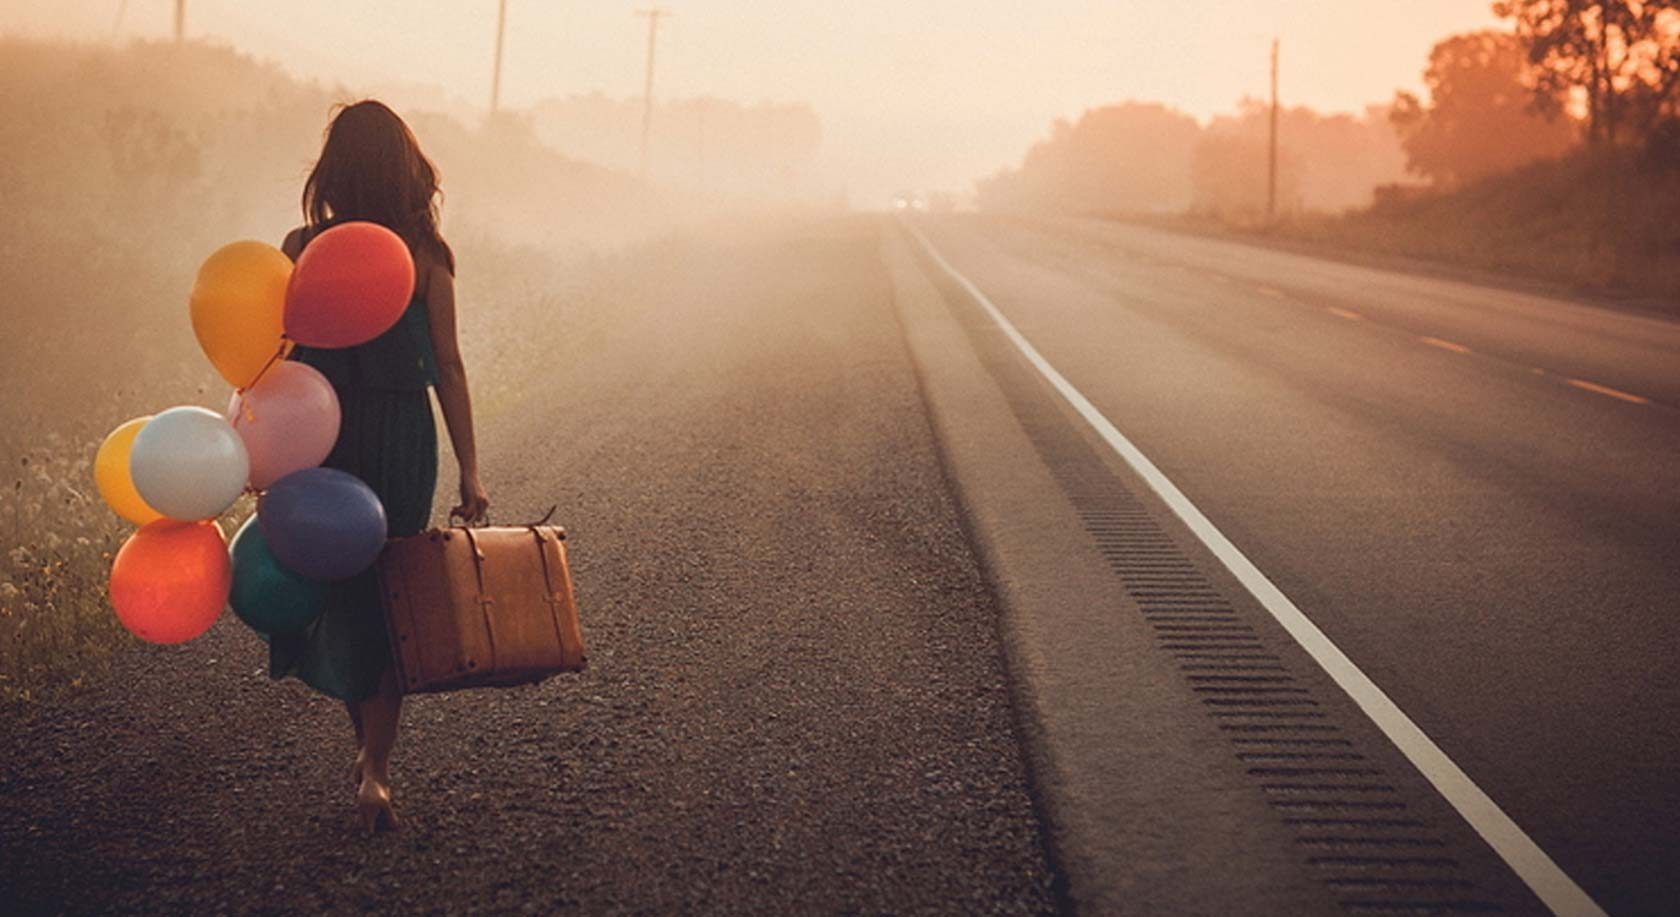
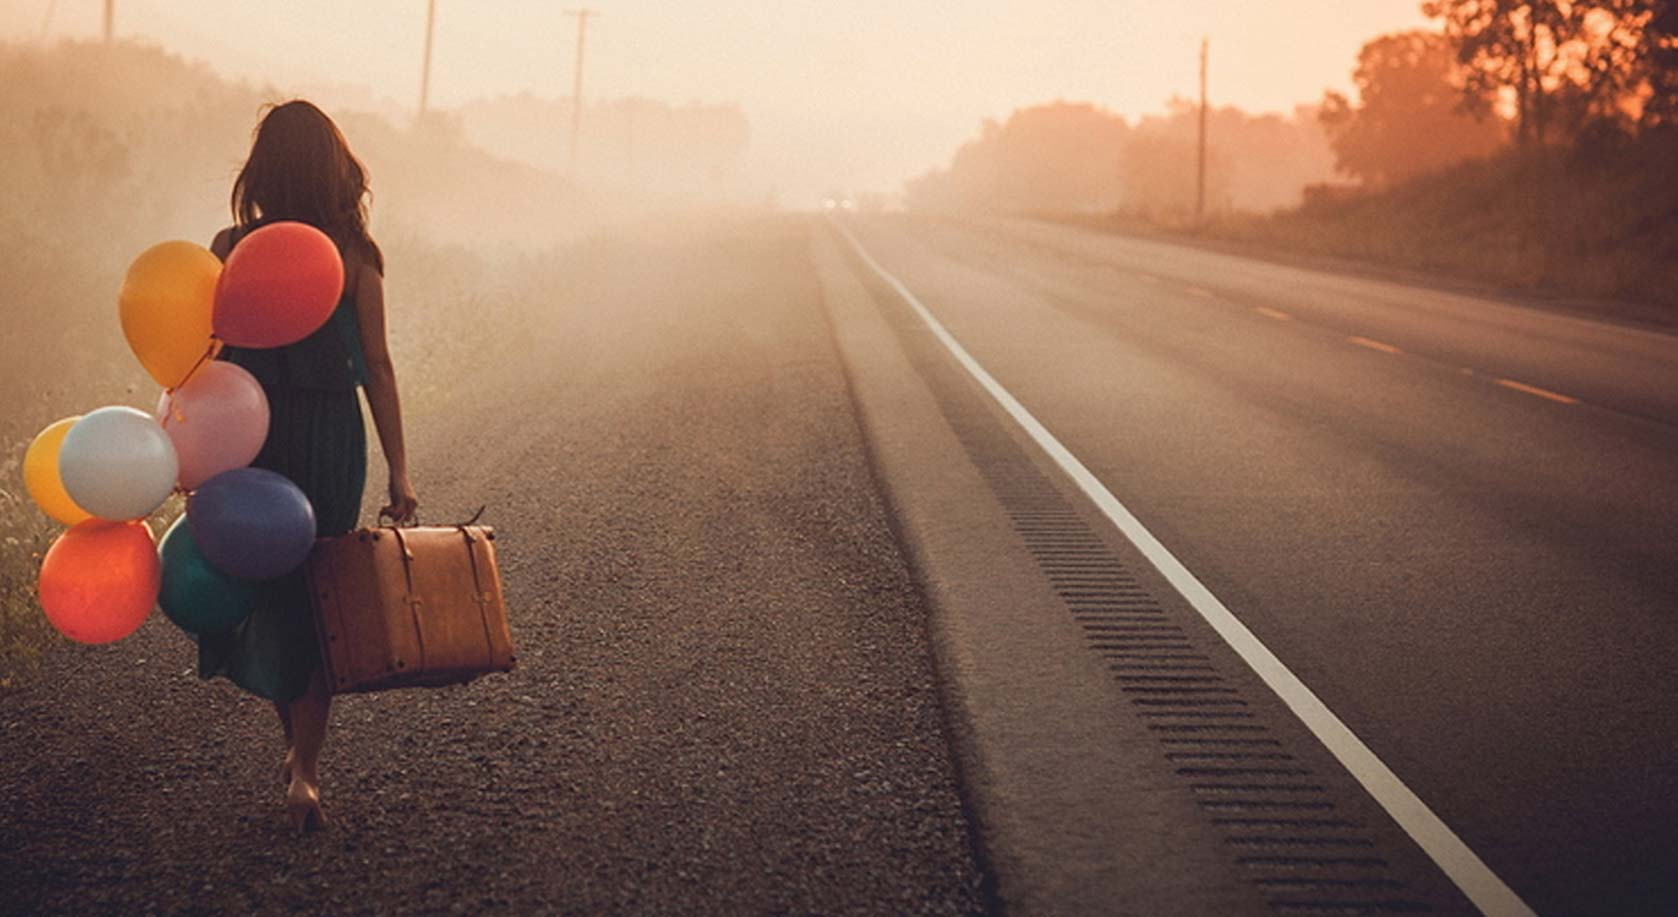
do things.

diff --git a/app/index.html b/app/index.html
@@ -20,25 +20,33 @@
         <script type="text/javascript">try{Typekit.load();}catch(e){}</script>
     </head>
     <body>
-        <header class="colour"></header>
-        <div class="back-panel">
-            <div class="container">
-                <header class="cf">
-                    <hgroup class="site-title td1 m1">
-                        <h1>What Lives Within</h1>
-                        <p>You have an innate sense for finding what it is you're meant to be doing with your life.</p>
-                    </hgroup>
-                    <div class="td2 m1">
-                        <img class="logo" src="images/logo.png">
-                    </div>
-                    <div class="site-navigation td3 m1">
-                        <ul>
-                            <li>Home</li>
-                            <li>Passion Profiles</li>
-                        </ul>
-                    </div>
-                </header>
-            </div>
+        <div class="top-stripe"></div>
+        <div class="back-panel clearfix">
+            <header class="site-header container">
+                <hgroup class="site-brand td1 m1">
+                    <h1 class="site-title">What Lives Within</h1>
+                    <p class="site-subtitle">Doing the work you love to do</p>
+                </hgroup>
+                <div class="td2 m1">
+                    <img class="logo" src="images/logo.png">
+                </div>
+                <ul class="site-nav td3 m1">
+                    <li>
+                        <a class="site-nav--link" href="#">
+                            <i class="site-nav--link--icon icon-home"></i>
+                            <span class="site-nav--link--title">Home</span>
+                            <span class="site-nav--link--caption">Ideas and inspiration for pursuing your passion</span>
+                        </a>
+                    </li>
+                    <li>
+                        <a class="site-nav--link" href="#">
+                            <i class="site-nav--link--icon icon-heart"></i>
+                            <span class="site-nav--link--title">Passion Profiles</span>
+                            <span class="site-nav--link--caption">What living your passion looks like</span>
+                        </a>
+                    </li>
+                </ul>
+            </header>
         </div>
         <div class="front-panel">
             <div class="container">
@@ -46,16 +54,26 @@
                     §
                 </div>
                 <div class="fast-feed td2-td3 m1">
-                    <article class="feed-item feed-{{ post.type }}">
-                        <h1 class="feed-post--title"><a href="{% url 'blog_single' post_id=post.id %}">3 Steps to Becoming a Better Learner</a></h1>
+                    <article class="feed--item feed-{{ post.type }}">
+                        <h1 class="feed--item--title"><a class="non-standard" href="{% url 'blog_single' post_id=post.id %}">3 Steps to Becoming a Better Learner</a></h1>
                         <p>Here’s a puzzle: Even though people talk about leadership all the time, and roughly eight kajillion leadership books have been published, we’re still plagued with fair to poor leaders in many, perhaps most, organizations.</p>
                         <p>Why is this?  Part of the problem is that most of us, deep down, don’t really think it’s possible for an okay leader to become a great leader. We believe leadership ability is inborn. Either you have it or you don’t. Unfortunately, thinking something is impossible makes it very difficult to accomplish.</p>
                         <p>The other difficulty is that most adults aren’t very good learners. In order to become the best leader (or, actually, the best anything) you’re capable of being, you have to become a great learner. Here are the three things most required to be that kind of powerful learner:</p>
-                        <ul class="feed-metadata">
-                            <li class="feed-metadata--date">5 Days Ago</li>
+                        <ul class="feed--item--meta">
+                            <li class="feed--item--meta--date">5 Days Ago</li>
                             <li>#Love</li>
                             <li>#Compassion</li>
                             <li>#Fun</li>
+                        </ul>
+                    </article>
+                    <article class="feed-item feed-photo">
+                        <figure>
+                            <img alt="placeholder" src="http://24.media.tumblr.com/aae0634371ee10af3e9e8579b616dea1/tumblr_mmjh06z03M1reyceho1_1280.jpg">
+                            <figcaption><p>Donny!</p></figcaption>
+                        </figure>
+                        <ul class="feed-metadata">
+                            <li class="feed-metadata--date"></li>
+                            <li>#image</li><li>#cute</li><li>#element</li><li>#passion</li>
                         </ul>
                     </article>
                 </div>
@@ -99,17 +117,19 @@
             $(function () {
                 set_footer_size();
                 set_slow_feed_offset();
+                
                 $(window).resize(function () {
                     set_footer_size();
                     set_slow_feed_offset();
                 });
+
                 $(window).scroll(function () {
                     if ($(document).scrollTop() + $(window).height() >= $(document).height() - $(window).height()) {
-                        if (!$('.back-panel').hasClass('dookie')) {
-                            $('.back-panel').addClass('dookie');
+                        if (!$('.back-panel').hasClass('s-reveal-footer')) {
+                            $('.back-panel').addClass('s-reveal-footer');
                         }
-                    } else if ($('.back-panel').hasClass('dookie')) {
-                        $('.back-panel').removeClass('dookie');
+                    } else if ($('.back-panel').hasClass('s-reveal-footer')) {
+                        $('.back-panel').removeClass('s-reveal-footer');
                     }
                 });
             });

diff --git a/app/styles/main.scss b/app/styles/main.scss
@@ -1,16 +1,23 @@
-@import 'fixed-grid';
-@import 'gridset';
+//=========================
+// VARIABLES //////////////
+//=========================
 
-$iconSpritePath: '../images/glyphicons-halflings.png';
+$iconSpritePath     : '../images/glyphicons-halflings.png';
 $iconWhiteSpritePath: '../images/glyphicons-halflings-white.png';
+
+$colour-red: rgb(200, 65, 60);
 
 $break-xl: 1199px;
 $break-l : 1023px;
 $break-m : 767px;
 $break-s : 319px;
 
-$type-stack--kepler: kepler-std, georgia, serif;
-$type-stack--proxima: proxima-nova, 'helveica neue', helvetica, sans-serif;
+$type-stack--kepler : kepler-std, georgia, serif;
+$type-stack--proxima: proxima-nova, 'helvetica neue', helvetica, sans-serif;
+
+//=========================
+// MIXINS /////////////////
+//=========================
 
 // Clearfix
 .cf:before,
@@ -18,21 +25,26 @@ $type-stack--proxima: proxima-nova, 'helveica neue', helvetica, sans-serif;
 .cf:after   { clear: both; }
 .cf         { zoom: 1; } /* IE < 8 */
 
-body { margin: 0; font-family: $type-stack--kepler; font-size: 112.5%; font-weight: 400; }
+//=========================
+// IMPORTS ////////////////
+//=========================
 
-h1, h2, h3, h4 { font-family: $type-stack--proxima; }
+@import 'gridset';
+@import 'type';
+@import 'layout';
 
-img { max-width: 100%; }
+//=========================
+// BASE ///////////////////
+//=========================
 
-.container {
-    max-width: 1199px; margin: 0 auto;
+body    { margin: 0; }
+img     { max-width: 100%; }
 
-    @media (max-width: 1199px)  { max-width: 1024px; margin: 0 auto; }
-    @media (max-width: 1023px)  { max-width: 768px; margin: 0 auto; }
-    @media (max-width: 767px)   { max-width: 100%; margin: 0 auto; }
-}
+//=========================
+// GLOBAL PAGE STRUCTURE //
+//=========================
 
-.colour {
+.top-stripe { // Consistent line of colour at the top of the page
     position: fixed;
     top: 0; right: 0; left: 0;
     height: 8px;
@@ -42,20 +54,22 @@ img { max-width: 100%; }
     z-index: 30;
 }
 
-.back-panel {
+.back-panel { // Photograph, header and footer that pass behind page content
     position: fixed;
     top: 0; right: 0; bottom: 0; left: 0;
 
-    background: url(../images/hero.jpg) 50% 50%;
+    background: url(../images/hero.jpg) 50% top;
 
     color: #fff;
 
     z-index: 10;
+
+    &.s-reveal-footer { // Hide site navigation and title when viewing footer
+        .site-brand, .site-nav { display: none; }
+    }
 }
 
-.logo { margin: 50px 0; }
-
-.front-panel {
+.front-panel { // Page content that scrolls through the foreground
     position: relative;
     top: 400px;
     height: 1200px;
@@ -66,21 +80,57 @@ img { max-width: 100%; }
     @media (max-width: 767px) { height: 300px; }
 }
 
-.slow-feed {
-    z-index: 50;
-    background: rgba(0, 0, 0, .08);
+.slow-feed {  z-index: 50; background: rgba(0, 0, 0, .08); height: 400px; } // Passion Profiles
 
-    height: 400px;
-}
-
-.dookie {
-    .site-title,
-    .site-navigation { display: none; }
-}
+.fast-feed {} // Tumblr feed
 
 .hero-footer { position: relative; top: 400px; }
 
-.what-lives-within-us {
+//=========================
+// SITE HEADER ////////////
+//=========================
+
+.site-header { height: 400px; }
+
+.site-brand     { margin: 100px 0 0; }
+.site-title     { font-family: $type-stack--kepler; font-size: 48px; font-weight: 400; text-align: left; margin: 0; font-style: normal; }
+.site-subtitle  { font-size: 24px; font-weight: 300; font-style: italic; margin: 0; }
+
+.logo { margin: 50px 0; }
+
+.site-nav {
+    list-style: none; margin: 100px 0 0; padding: 0;
+
+    > li {
+        margin-bottom: 1em;
+
+        &:last-child { margin-bottom: 0; }
+    }
+}
+
+.site-nav--link,
+.site-nav--link:active,
+.site-nav--link:link,
+.site-nav--link:visited,
+.site-nav--link:hover       { display: block; color: #fff; font-family: $type-stack--proxima; }
+.site-nav--link--icon       { display: block; float: left; width: 40px; height: 40px; margin: 5px; background: rgba(0, 0, 0, .32); color: #fff; }
+.site-nav--link--title      { display: block; font-size: 24px; font-weight: 600; }
+.site-nav--link--caption    { display: block; }
+
+//=========================
+// Tumblr Feed ////////////
+//=========================
+
+.feed--item--meta {
+    margin: 0; padding: 0;
+    > li { display: inline-block; padding-right: 15px; }
+}
+
+//=========================
+// SITE FOOTER ////////////
+//=========================
+
+.what-lives-within-us { // “What lies behind us and what lies before us are insignificant compared to what lives within us.”
     position: fixed;
     top: 0;
     right: 0;
@@ -95,3 +145,12 @@ img { max-width: 100%; }
 
     z-index: 15;
 }
+
+// § //
+
+
+
+
+
+
+

diff --git a/app/styles/_type.scss b/app/styles/_type.scss
@@ -1,0 +1,52 @@
+//=========================
+// TYPE ///////////////////
+//=========================
+
+body { font-family: $type-stack--kepler; font-size: 112.5%; font-weight: 400; }
+
+h1, h2, h3, h4 { font-family: $type-stack--proxima; }
+
+p { margin-bottom: 1.5em; }
+
+blockquote {
+    text-indent: 0;
+    font-size: 24px;
+    margin-bottom: 1.333333333em;
+    font-weight: 300;
+    font-style: italic;
+    letter-spacing: 0px;
+    padding: 0 1.333333333em;
+}
+
+h1 {
+    font-size: 36px;
+    line-height: 1;
+    font-weight: 400;
+    text-align: center;
+    margin-bottom: .5em;
+}
+
+h2 {
+    font-size: 24px;
+    line-height: 1;
+    text-align: center;
+    margin-bottom: 10px;
+}
+
+p.first { font-size: 36px; }
+
+a, a:link, a:visited, a:hover {
+    color: $colour-red; text-decoration: none;
+
+    &.non-standard { color: #333; }
+}
+
+
+// § //
+
+
+
+
+
+
+

diff --git a/app/styles/_layout.scss b/app/styles/_layout.scss
@@ -1,0 +1,32 @@
+//=========================
+// LAYOUT /////////////////
+//=========================
+
+.container {
+    max-width: $break-xl; margin: 0 auto;
+
+    @media (max-width: $break-xl)   { max-width: $break-l;  margin: 0 auto; }
+    @media (max-width: $break-l)    { max-width: $break-m;  margin: 0 auto; }
+    @media (max-width: $break-m)    { max-width: 100%;      margin: 0 auto; }
+}
+
+.affix          { position: fixed; top: 0; }
+.affix-bottom   { position: absolute; top: auto; bottom: 0; }
+
+.slow-feed.affix,
+.slow-feed.affix-bottom { 
+    width: $break-xl * .32;
+
+    @media (max-width: 1199px)  { width: $break-l * .32; }
+    @media (max-width: 1023px)  { width: $break-m * .32; }
+    @media (max-width: 767px)   { width: 100%; position: relative; }
+}
+
+// § //
+
+
+
+
+
+
+
